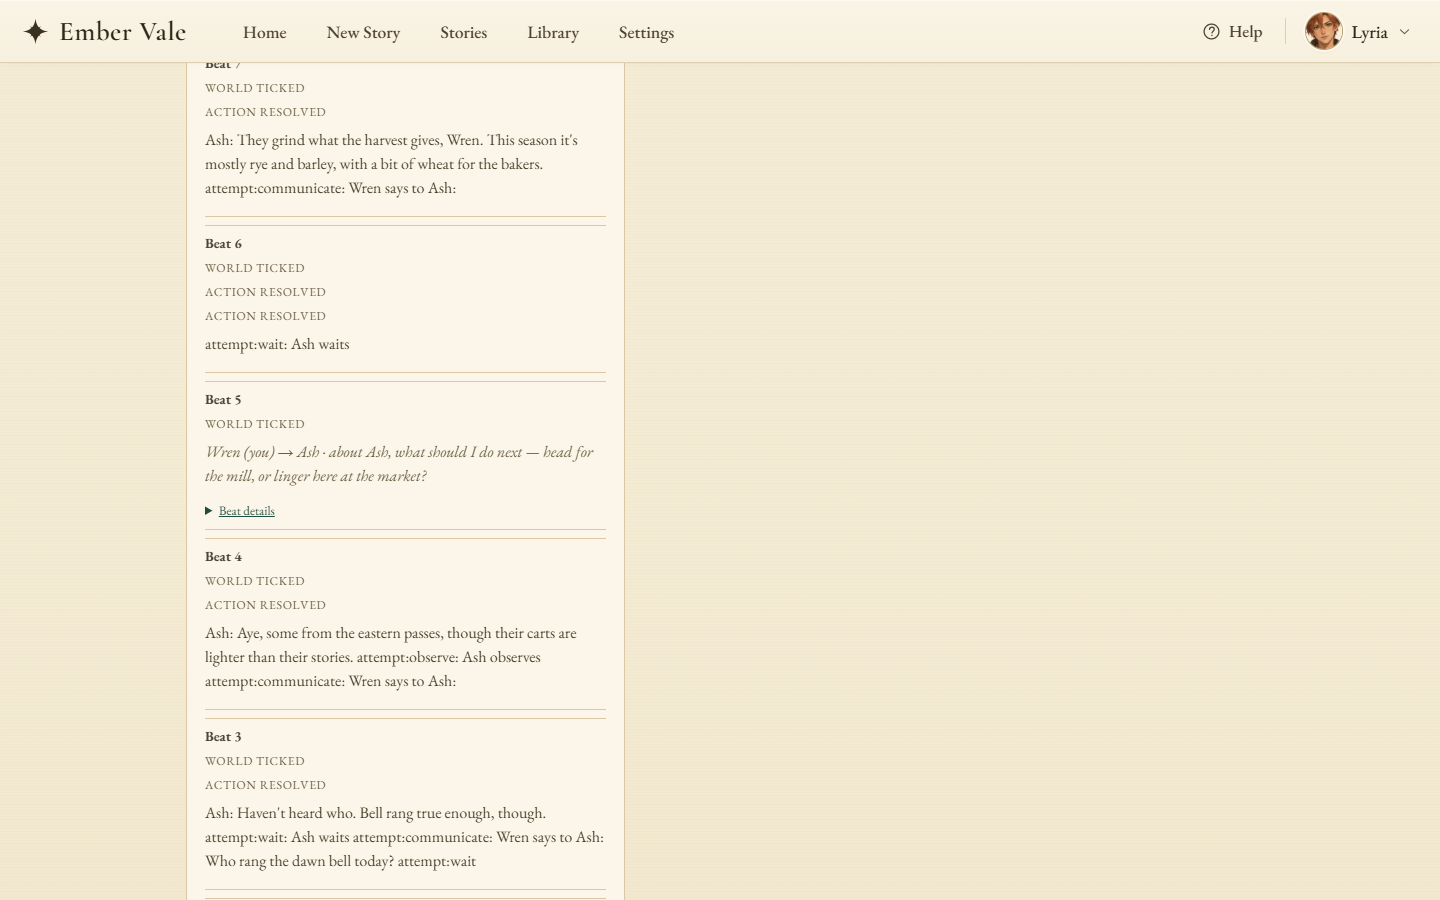
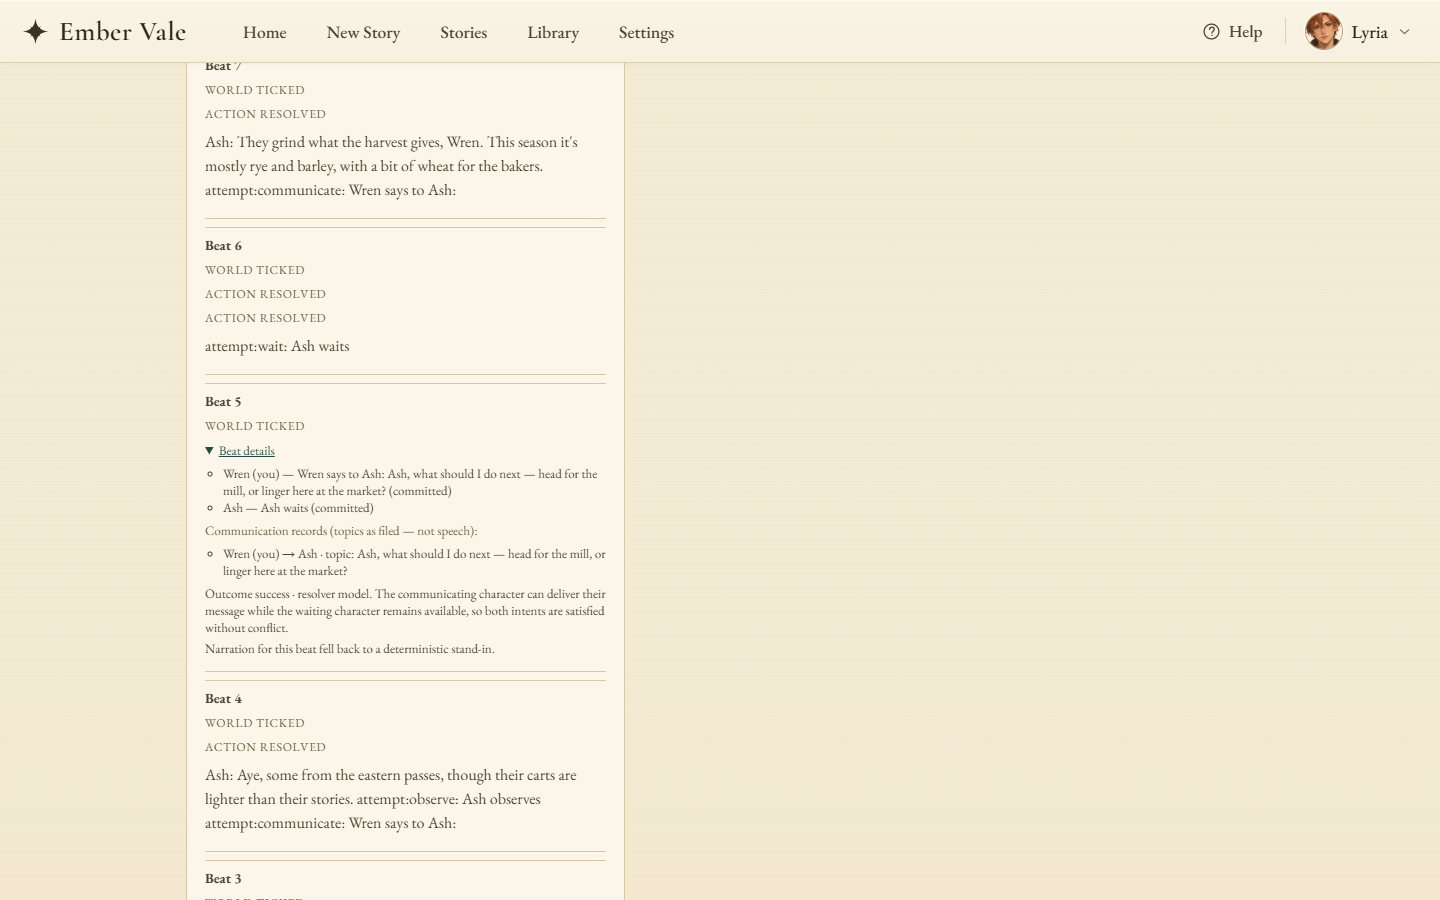
72n push

Changed region(s): [[0.125, 0.4356, 0.4375, 1.0], [0.125, 0.2489, 0.4062, 0.4356], [0.125, 0.0933, 0.375, 0.2178]]

diff --git a/src/components/story/beatReading.spec.ts b/src/components/story/beatReading.spec.ts
@@ -1,8 +1,8 @@
 /**
- * Deterministic fixtures for the room's quotation and commitment rules.
- * Shapes mirror the live envelopes: Venice/deepseek narration beats,
- * communicate intent/reaction details (quoted, unquoted, redacted), and
- * resolution outcomes.
+ * Deterministic fixtures for the room's attribution rule: spoken lines
+ * come from persisted DIALOGUE beats only. Scene resolution outcome never
+ * proves an individual utterance committed, so no speech — and no "not
+ * committed" — is inferred from it. Shapes mirror the live envelopes.
  */
 import { describe, expect, it } from 'vitest'
 import type { BeatView, SceneDetail } from '../../../content/clients/worldsim'
@@ -58,59 +58,62 @@ function communicateIntent(
   }
 }
 
-describe('beatReading quotation rules', () => {
-  it('never presents an unquoted topic as dialogue', () => {
+describe('beatReading attribution', () => {
+  it('a quoted intent plus scene success does not manufacture dialogue', () => {
+    const reading = readScene(
+      scene({ intents: [communicateIntent('"Dawn bell means buyers."')] }),
+      [beat('narration', 'Rain on the stones.')]
+    )
+    expect(reading.blocks.filter((b) => b.type === 'say')).toHaveLength(0)
+    expect(reading.blocks.map((b) => b.type)).toEqual(['prose'])
+    expect(reading.records).toEqual([
+      { speakerId: WREN, targetId: ASH, topic: '"Dawn bell means buyers."', quoted: true }
+    ])
+  })
+
+  it('persisted dialogue stays visible with failure/impossible outcomes', () => {
+    for (const outcome of ['failure', 'impossible']) {
+      const reading = readScene(
+        scene(
+          { intents: [communicateIntent('Market stalls')] },
+          { outcome, rationale: 'no', resolver: 'model' }
+        ),
+        [beat('dialogue', 'Stalls open at dawn.', ASH)]
+      )
+      expect(reading.blocks).toContainEqual({
+        type: 'say',
+        speakerId: ASH,
+        text: 'Stalls open at dawn.'
+      })
+    }
+  })
+
+  it('missing narration causes no commitment claim either way', () => {
+    const reading = readScene(scene({ intents: [communicateIntent('"Hello?"')] }, null), [])
+    expect(reading.blocks).toHaveLength(0)
+    expect(reading.records).toEqual([
+      { speakerId: WREN, targetId: ASH, topic: '"Hello?"', quoted: true }
+    ])
+  })
+
+  it('unquoted topics stay records, never speaker-labelled dialogue', () => {
     const reading = readScene(scene({ intents: [communicateIntent('Market stalls')] }), [
       beat('narration', 'Rain on the stones.')
     ])
     expect(reading.blocks.filter((b) => b.type === 'say')).toHaveLength(0)
-    expect(reading.blocks).toContainEqual({
-      type: 'topic',
-      speakerId: WREN,
-      targetId: ASH,
-      topic: 'Market stalls'
-    })
-    expect(reading.attempted).toHaveLength(0)
-  })
-
-  it('renders a quoted topic as speech only on a committed beat', () => {
-    const reading = readScene(
-      scene({ intents: [communicateIntent('"Dawn bell means buyers. Wall."')] }),
-      []
-    )
-    expect(reading.blocks).toContainEqual({
-      type: 'say',
-      speakerId: WREN,
-      text: '"Dawn bell means buyers. Wall."',
-      quoted: true
-    })
-  })
-
-  it('treats quoted topics on failed beats as attempts, not speech', () => {
-    const reading = readScene(
-      scene(
-        { intents: [communicateIntent('"You never listen."')] },
-        { outcome: 'failure', rationale: 'blocked', resolver: 'model' }
-      ),
-      []
-    )
-    expect(reading.blocks.filter((b) => b.type === 'say')).toHaveLength(0)
-    expect(reading.attempted).toEqual([{ speakerId: WREN, text: '"You never listen."' }])
-  })
-
-  it('treats quoted topics without a resolution as attempts', () => {
-    const reading = readScene(scene({ intents: [communicateIntent('"Hello?"')] }, null), [])
-    expect(reading.blocks.filter((b) => b.type === 'say')).toHaveLength(0)
-    expect(reading.attempted).toHaveLength(1)
+    expect(reading.records).toEqual([
+      { speakerId: WREN, targetId: ASH, topic: 'Market stalls', quoted: false }
+    ])
   })
 
   it('renders nothing for redacted (perspective-hidden) detail', () => {
     const reading = readScene(scene({ intents: [communicateIntent(null)] }), [])
     expect(reading.blocks).toHaveLength(0)
+    expect(reading.records).toHaveLength(0)
     expect(communicateTopics(scene({ intents: [communicateIntent(null)] }))).toHaveLength(0)
   })
 
-  it('prefers voiced dialogue and skips the duplicate intent summary', () => {
+  it('prefers voiced dialogue and skips no duplicate intent summary', () => {
     const reading = readScene(
       scene({
         reactions: [
@@ -125,7 +128,8 @@ describe('beatReading quotation rules', () => {
       [beat('dialogue', 'Stalls open at dawn.', ASH)]
     )
     expect(reading.blocks).toHaveLength(1)
-    expect(reading.blocks[0]).toMatchObject({ type: 'say', quoted: false })
+    expect(reading.blocks[0]).toEqual({ type: 'say', speakerId: ASH, text: 'Stalls open at dawn.' })
+    expect(reading.records).toHaveLength(1)
   })
 
   it('keeps narration and dialogue in stored order, never grouped', () => {

diff --git a/src/components/story/beatReading.ts b/src/components/story/beatReading.ts
@@ -1,18 +1,15 @@
 /**
  * Pure reading helpers for the room's beat cards (no Vue, no fetches).
  *
- * The established quotation and commitment rules live here so they are
- * covered by deterministic fixtures:
- *
- * - Persisted DIALOGUE beats are speech. Nothing else speaks on its own.
- * - A `communicate` topic is a topic, not an utterance: unquoted topics
- *   render as summaries, never as speaker-labelled dialogue.
- * - A quoted topic counts as quoted speech only when the beat's
- *   resolution committed it (`outcome === 'success'`). Quoted but
- *   uncommitted utterance is an attempt, rendered with the technical
- *   detail — never in the dialogue flow.
- * - Intent/reaction `detail` may be redacted for the viewer (null): then
- *   there is no topic to render at all.
+ * The attribution rule lives here so it is covered by deterministic
+ * fixtures: spoken lines come from persisted DIALOGUE beats only. Scene
+ * resolution outcome never proves an individual utterance committed —
+ * the backend's commitment check reads the reaction's own status, which
+ * the scene API does not expose — so no speech (and no "not committed")
+ * is ever inferred from the outcome. Supplementary intent/reaction
+ * topics stay verbatim records in Beat details, quoted or not.
+ * Intent/reaction `detail` may be redacted for the viewer (null): then
+ * there is no topic to render at all.
  */
 import type { BeatView, SceneDetail } from '../../../content/clients/worldsim'
 
@@ -76,63 +73,50 @@ export function communicateTopics(detail: SceneDetail): CommunicateTopic[] {
 }
 
 export type ReadingBlock =
-  /** Voiced line: persisted DIALOGUE beat, or quoted topic on a committed beat. */
-  | { type: 'say'; speakerId: string | null; text: string; quoted: boolean }
-  /** Communication summary: an unquoted topic. Never presented as speech. */
-  | { type: 'topic'; speakerId: string; targetId: string | null; topic: string }
+  /** Voiced line from a persisted DIALOGUE beat — the only speech source. */
+  | { type: 'say'; speakerId: string | null; text: string }
   /** Narration prose, in stored order. */
   | { type: 'prose'; text: string }
 
-export interface AttemptedSpeech {
+export interface TopicRecord {
   speakerId: string
-  text: string
+  targetId: string | null
+  topic: string
+  quoted: boolean
 }
 
 export interface SceneReading {
   /** Dialogue and prose in the stored narration order (never grouped). */
   blocks: ReadingBlock[]
-  /** Quoted topics on beats that did not commit: attempts, not speech. */
-  attempted: AttemptedSpeech[]
+  /**
+   * Verbatim communicate topics for Beat details. Quotation marks are
+   * preserved as written, but no speech — and no commitment claim in
+   * either direction — is inferred: the resolution outcome does not prove
+   * an individual utterance committed.
+   */
+  records: TopicRecord[]
 }
 
 /**
- * Blocks for one scene. Dialogue beats speak; supplementary topics fill in
- * only when nothing was voiced, and then only under the quotation and
- * commitment rules above.
+ * Blocks for one scene. Only persisted DIALOGUE beats speak; topics are
+ * records regardless of quotation or outcome.
  */
 export function readScene(detail: SceneDetail, narration: BeatView[]): SceneReading {
   const blocks: ReadingBlock[] = []
   for (const beat of narration) {
     if (beat.kind === 'dialogue') {
-      blocks.push({
-        type: 'say',
-        speakerId: beat.speaker_id ?? null,
-        text: beat.text,
-        quoted: false
-      })
+      blocks.push({ type: 'say', speakerId: beat.speaker_id ?? null, text: beat.text })
     } else if (!isAttemptRecord(beat.text ?? '')) {
       blocks.push({ type: 'prose', text: beat.text })
     }
   }
-  const attempted: AttemptedSpeech[] = []
-  if (!blocks.some((b) => b.type === 'say')) {
-    const committed = detail.resolution?.outcome === 'success'
-    for (const topic of communicateTopics(detail)) {
-      if (topic.quoted && committed) {
-        blocks.push({ type: 'say', speakerId: topic.speakerId, text: topic.topic, quoted: true })
-      } else if (topic.quoted) {
-        attempted.push({ speakerId: topic.speakerId, text: topic.topic })
-      } else {
-        blocks.push({
-          type: 'topic',
-          speakerId: topic.speakerId,
-          targetId: topic.targetId,
-          topic: topic.topic
-        })
-      }
-    }
-  }
-  return { blocks, attempted }
+  const records: TopicRecord[] = communicateTopics(detail).map((topic) => ({
+    speakerId: topic.speakerId,
+    targetId: topic.targetId,
+    topic: topic.topic,
+    quoted: topic.quoted
+  }))
+  return { blocks, records }
 }
 
 export interface ScenePointer {

diff --git a/src/components/story/BeatEntry.vue b/src/components/story/BeatEntry.vue
@@ -2,7 +2,7 @@
 import { computed, onMounted, watch } from 'vue'
 import type { TimelineEntry } from '../../../content/clients/worldsim'
 import type { BeatDetailState } from '../../composables/useStory'
-import { readScene, sceneCitations, type ReadingBlock, type ScenePointer } from './beatReading'
+import { readScene, sceneCitations, type ScenePointer, type TopicRecord } from './beatReading'
 
 const props = defineProps<{
   index: number
@@ -46,11 +46,14 @@ function paragraphs(text: string): string[][] {
     .filter((lines) => lines.length > 0)
 }
 
-function topicLine(block: Extract<ReadingBlock, { type: 'topic' }>): string {
-  const speaker = displayName(block.speakerId)
-  const about = `about ${block.topic}`
-  if (!block.targetId) return `${speaker} · ${about}`
-  return `${speaker} → ${displayName(block.targetId)} · ${about}`
+/**
+ * A supplementary topic as a verbatim record: quotation marks preserved
+ * as written, never presented as speech, never a commitment claim.
+ */
+function recordLine(record: TopicRecord): string {
+  const speaker = displayName(record.speakerId)
+  const whom = record.targetId ? `${speaker} → ${displayName(record.targetId)}` : speaker
+  return record.quoted ? `${whom} · ${record.topic}` : `${whom} · topic: ${record.topic}`
 }
 
 type Segment = { kind: 'rich'; pointer: ScenePointer } | { kind: 'legacy'; entry: TimelineEntry }
@@ -126,7 +129,6 @@ function eventSnippets(eventId: string): TimelineEntry[] {
                   </template>
                 </div>
               </div>
-              <p v-else-if="block.type === 'topic'" class="beat__topic">{{ topicLine(block) }}</p>
               <template v-else>
                 <template v-for="para in paragraphs(block.text)" :key="para.join('|')">
                   <p class="beat__text">
@@ -146,13 +148,18 @@ function eventSnippets(eventId: string): TimelineEntry[] {
                   }})
                 </li>
               </ul>
-              <p v-if="readScene(scene.detail, scene.narration).attempted.length">
-                <template
-                  v-for="at in readScene(scene.detail, scene.narration).attempted"
-                  :key="at.speakerId + at.text">
-                  {{ displayName(at.speakerId) }} tried to say {{ at.text }} — not committed.
-                </template>
-              </p>
+              <template v-if="readScene(scene.detail, scene.narration).records.length">
+                <p class="beat__records-head">
+                  Communication records (topics as filed — not speech):
+                </p>
+                <ul>
+                  <template
+                    v-for="record in readScene(scene.detail, scene.narration).records"
+                    :key="record.speakerId + record.topic">
+                    <li>{{ recordLine(record) }}</li>
+                  </template>
+                </ul>
+              </template>
               <p v-if="scene.detail.resolution">
                 Outcome {{ scene.detail.resolution.outcome }} · resolver
                 {{ scene.detail.resolution.resolver }}.
@@ -223,11 +230,10 @@ function eventSnippets(eventId: string): TimelineEntry[] {
   margin: 0 0 6px;
   line-height: 1.5;
 }
-.beat__topic {
-  margin: 0 0 6px;
-  line-height: 1.5;
+.beat__records-head {
+  margin: 6px 0 2px;
+  font-size: 13px;
   color: #6b5d43;
-  font-style: italic;
 }
 .beat__kind {
   font-size: 12px;

diff --git a/docs/evidence/play-10beat/READING-FIX.md b/docs/evidence/play-10beat/READING-FIX.md
@@ -11,28 +11,35 @@ check) is preserved unmodified below.
 `sceneLines()` turned every `communicate` intent/reaction into a
 speaker-labelled line. `Market stalls` is a topic, not words spoken.
 
+Correction (supersedes the first fix, which wrongly gated quoted topics
+on scene resolution success): spoken lines come from persisted DIALOGUE
+beats only. Scene resolution outcome never proves an individual
+utterance committed — the backend commitment check reads the reaction's
+own status, which the scene API does not expose.
+
 Fix (`src/components/story/beatReading.ts`, pure, fixture-covered):
 
-- Persisted DIALOGUE beats speak. Nothing else does on its own.
-- A quoted topic (`"…"`) counts as quoted speech only when the beat's
-  resolution committed it (`outcome === 'success'`).
-- Unquoted topics render as muted summary lines (`Wren (you) → Ash ·
-about …`) — never with a speaker avatar.
-- Quoted but uncommitted utterances render as attempts in Beat details
-  (`… tried to say … — not committed`).
+- Persisted DIALOGUE beats speak. Nothing else does, regardless of
+  quotation or resolution outcome.
+- All supplementary topics stay verbatim records in Beat details
+  (`Communication records (topics as filed — not speech)`), quoted or
+  not. No speech — and no "not committed" — is inferred from the
+  outcome. A later need for committed speech must expose its
+  authoritative source status explicitly.
 - Redacted (perspective-hidden, null) detail renders nothing.
 
-Regressions (`beatReading.spec.ts`, 13 tests): unquoted-topic summary,
-quoted committed speech, quoted-on-failure and quoted-without-resolution
-as attempts, redacted silence, dialogue precedence (no duplication),
-stored narration/dialogue ordering, attempt-record exclusion,
-pointer aggregation order/dedupe, citation order.
+Regressions (`beatReading.spec.ts`, 13 tests): quoted intent plus
+scene success manufactures no dialogue; dialogue stays visible with
+failure/impossible outcomes; missing narration causes no commitment
+claim either way; unquoted topics stay records; redacted silence;
+dialogue precedence; stored ordering; attempt-record exclusion;
+pointer aggregation order/dedupe; citation order.
 
 In-vivo (existing story `d5104e8a`, seeded real pointers, fresh
 profiles): beat 10 renders one Ash dialogue line, no duplication
 (`rich-beat10.png`); beat 5 (no dialogue beats, fallback) renders zero
-spoken lines and one topic summary (`beat5-summary.png`):
-`Wren (you) → Ash · about Ash, what should I do next — …`.
+spoken lines, zero flow topics, and the verbatim record in Beat details
+(`beat5-summary.png`).
 
 ## Defect 2: one-card-per-beat hid additional scenes
 
